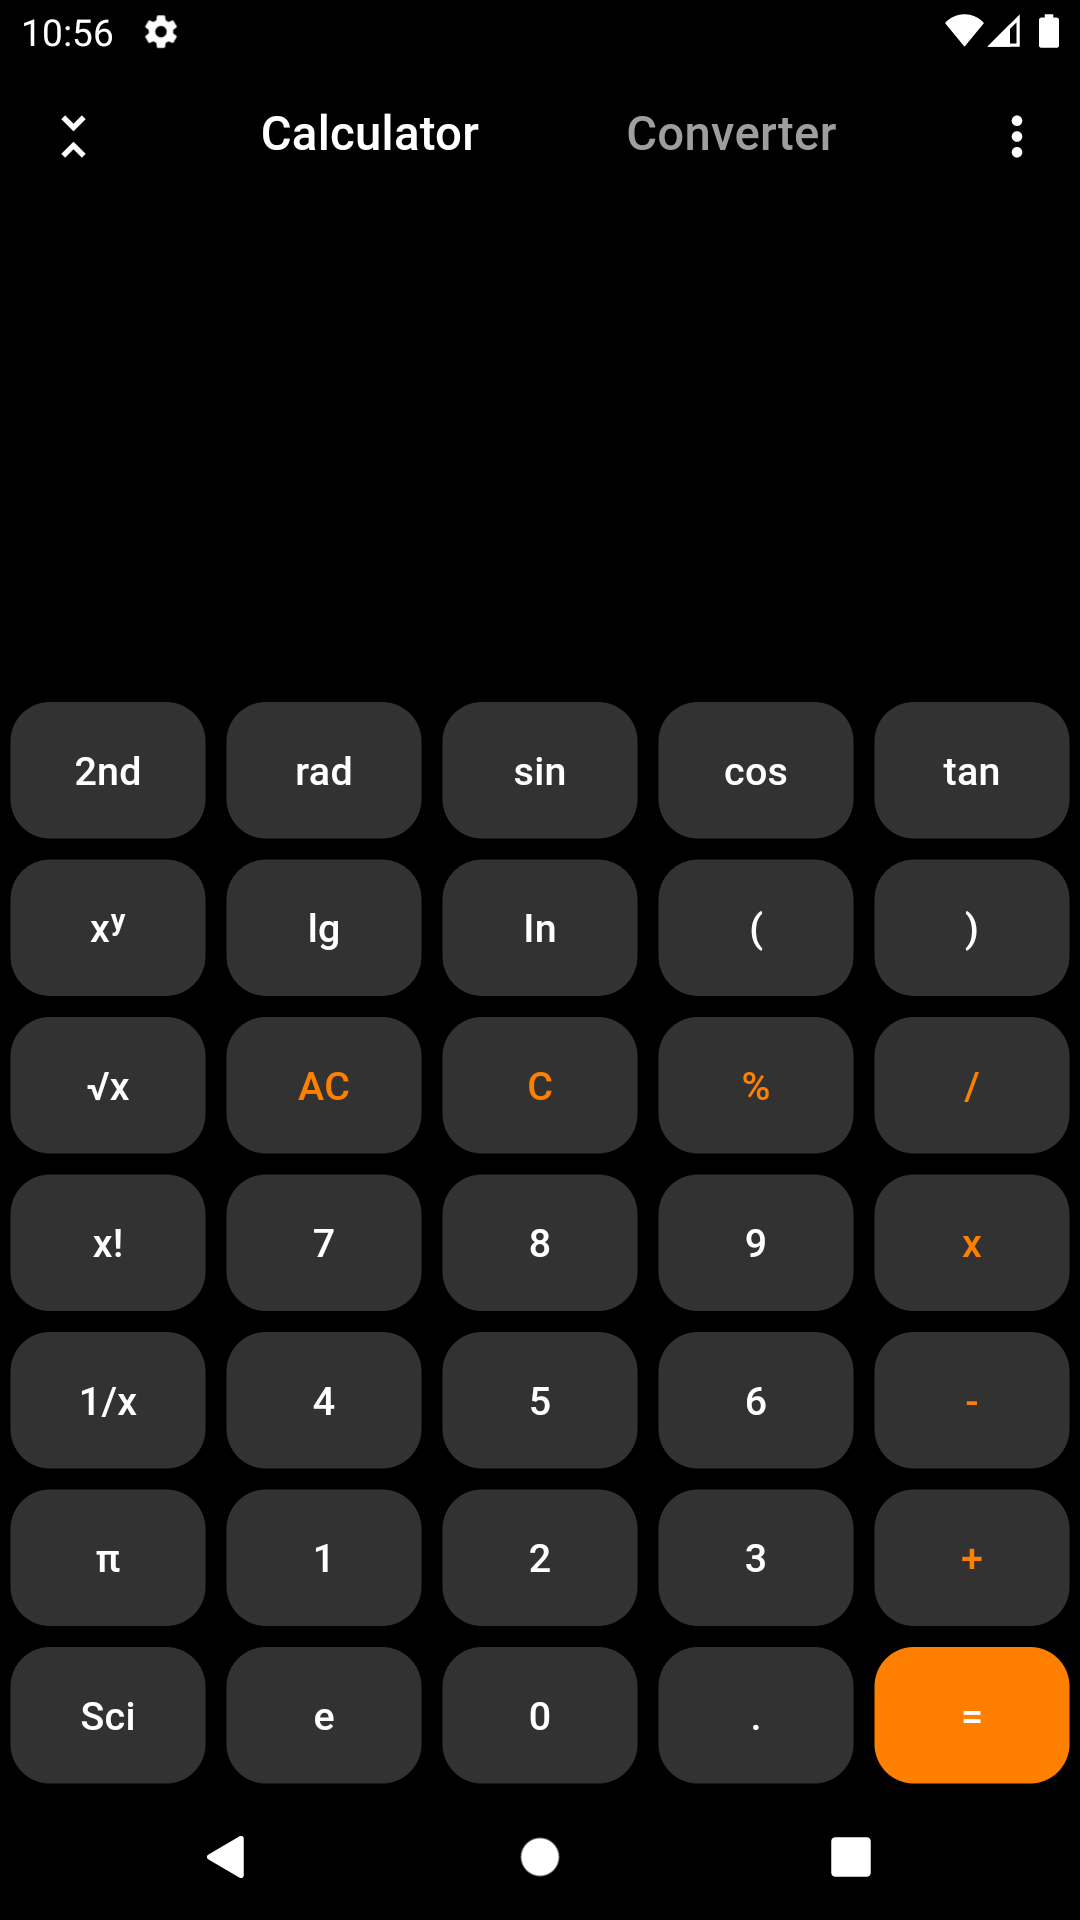
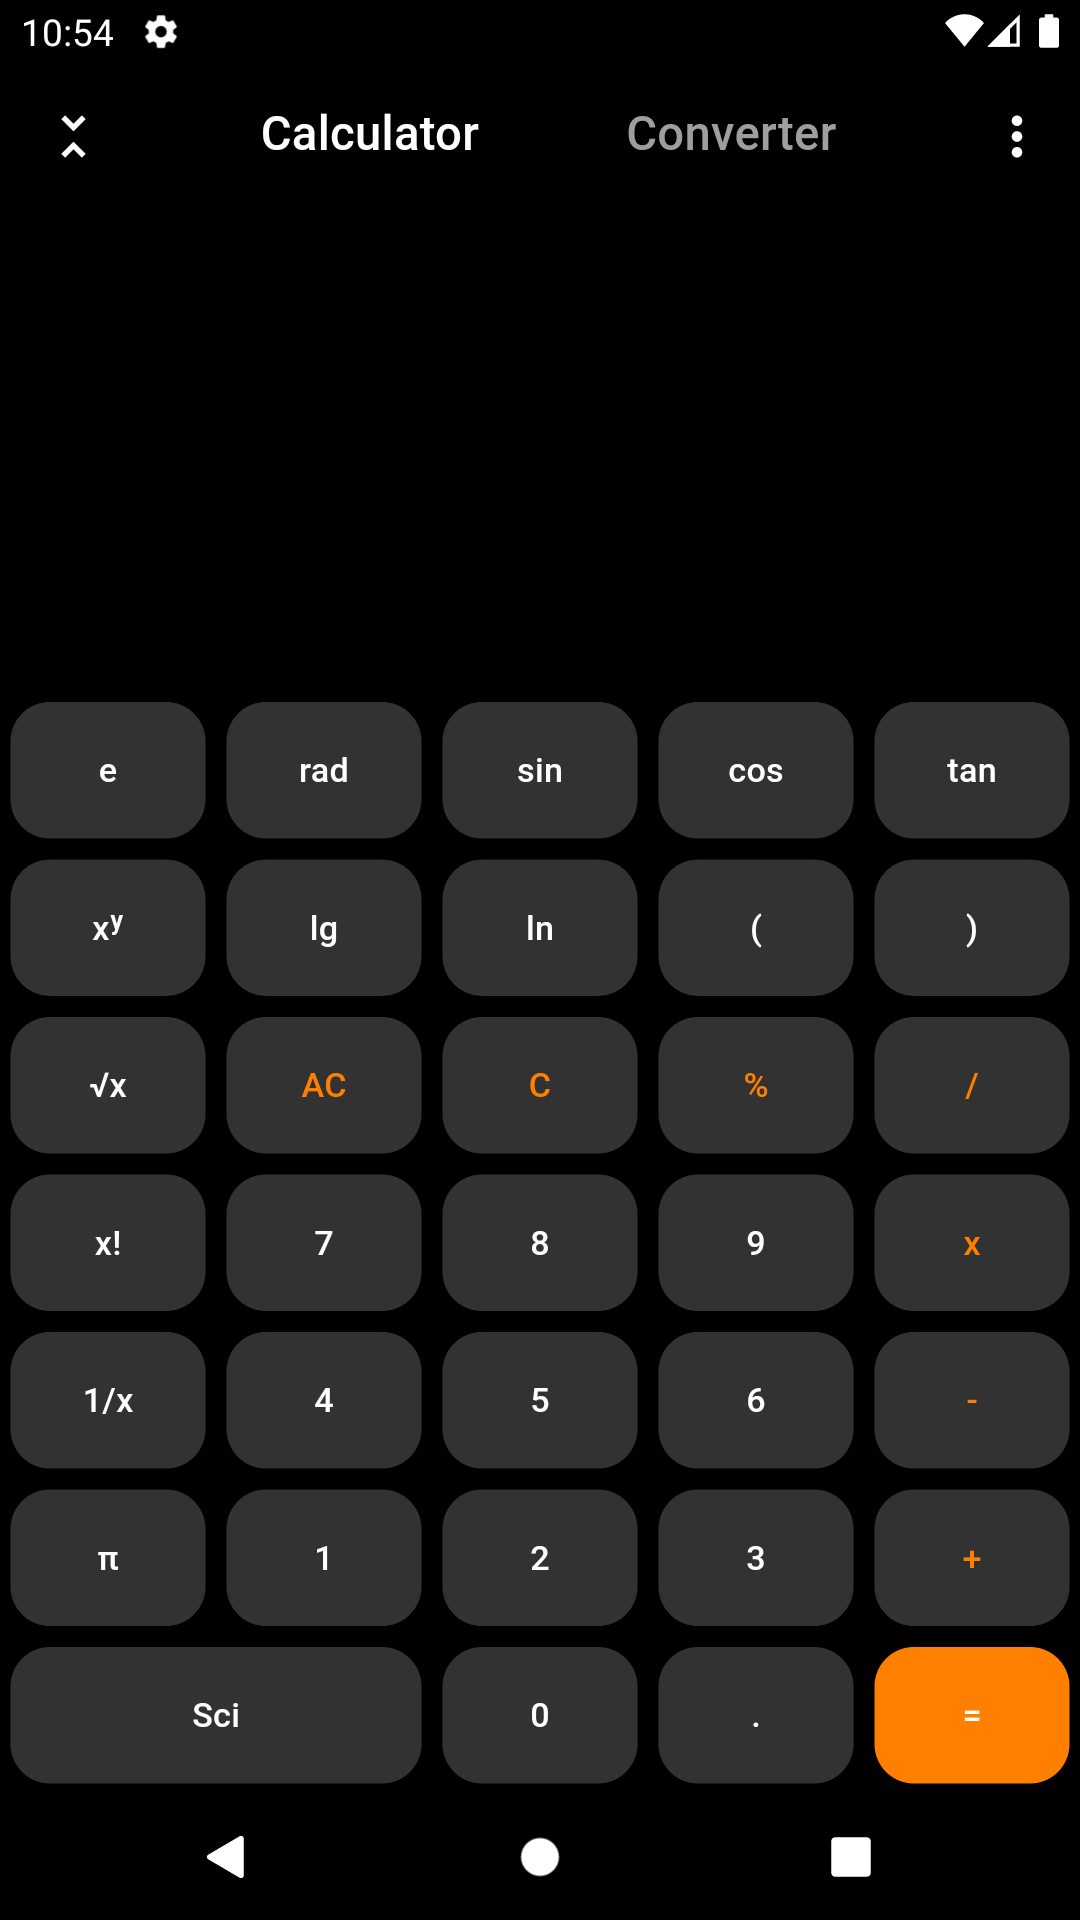
Updated

diff --git a/lib/Calculator/cal_ui.dart b/lib/Calculator/cal_ui.dart
@@ -1,6 +1,8 @@
+import 'dart:math';
+import 'package:auto_size_text/auto_size_text.dart';
 import 'package:flutter/material.dart';
-import 'package:expressions/expressions.dart';
 import 'package:function_tree/function_tree.dart';
+import 'package:sci_calculator/Calculator/cal_color.dart';
 
 class CalUI extends StatefulWidget {
   const CalUI({super.key});
@@ -13,9 +15,18 @@ class _CalUIState extends State<CalUI> {
   //Creating the properties
   String display = "";
   bool isScientific = false;
-  //
+
+  // For Calculation
+  bool islg = false;
+  bool isRadianBtn = true;
+  bool checkIsDeg = true;
+
+  // To set Value
   double heightValue = 70;
   double fontSizeValue = 25;
+
+  //Creating obj of CalServices
+  CalColor calColor = CalColor();
 
   @override
   Widget build(BuildContext context) {
@@ -30,17 +41,18 @@ class _CalUIState extends State<CalUI> {
             width: double.infinity,
             child: Align(
               alignment: Alignment.centerRight,
-              child: Text(
-                display, //Y Error
+              child: AutoSizeText(
+                display,
                 style: const TextStyle(fontSize: 50, color: Colors.white),
+                maxLines: 1,
               ),
             ),
           ),
           if (isScientific)
             Row(
               children: [
-                addBtn("2nd"),
-                addBtn("rad"),
+                addBtn("e"),
+                if (isRadianBtn) addBtn("rad") else addBtn("deg"),
                 addBtn("sin"),
                 addBtn("cos"),
                 addBtn("tan"),
@@ -52,7 +64,7 @@ class _CalUIState extends State<CalUI> {
               children: [
                 addBtn("xʸ"),
                 addBtn("lg"),
-                addBtn("In"),
+                addBtn("ln"),
                 addBtn("("),
                 addBtn(")"),
               ],
@@ -94,22 +106,17 @@ class _CalUIState extends State<CalUI> {
             ],
           ),
           Row(
-            children: [
-              if (isScientific) addBtn("Sci"),
-              if (isScientific) addBtn("e") else addBtn("Sci"),
-              addBtn("0"),
-              addBtn("."),
-              addBtn("=")
-            ],
+            children: [addBtn("Sci"), addBtn("0"), addBtn("."), addBtn("=")],
           ),
         ],
       ),
     );
   }
 
+  //Method take btn Name as Input and return as Button
   Expanded addBtn(btnText) {
     return Expanded(
-      flex: 1,
+      flex: btnText == "Sci" && isScientific ? 2 : 1,
       child: Container(
         //Height of Row
         height: heightValue,
@@ -119,7 +126,8 @@ class _CalUIState extends State<CalUI> {
             child: Text(
               btnText,
               style: TextStyle(
-                  fontSize: fontSizeValue, color: getColortxt(btnText)),
+                  fontSize: fontSizeValue,
+                  color: calColor.getColortxt(btnText)),
             ),
             onPressed: () {
               btnOnPressed(btnText);
@@ -129,45 +137,43 @@ class _CalUIState extends State<CalUI> {
                   RoundedRectangleBorder(
                       borderRadius: BorderRadius.circular(15)),
                 ),
-                backgroundColor: WidgetStatePropertyAll(getBtnBg(btnText)))),
+                backgroundColor:
+                    WidgetStatePropertyAll(calColor.getBtnBg(btnText)))),
       ),
     );
   }
 
-  Color getBtnBg(String txt) {
-    if (txt == "=") {
-      return Color.fromARGB(255, 255, 128, 0);
-    } else {
-      return Color.fromARGB(255, 51, 50, 50);
-    }
-  }
-
-  Color getColortxt(String txt) {
-    if (txt == "AC" ||
-        txt == "C" ||
-        txt == "%" ||
-        txt == "/" ||
-        txt == "+" ||
-        txt == "-" ||
-        txt == "x") {
-      return const Color.fromARGB(255, 255, 128, 0);
-    } else {
-      return Colors.white;
-    }
-  }
-
+  //This Method is called when a btn is clicked
   void btnOnPressed(String btnText) {
     if (btnText == "Sci") {
       setState(() {
         isScientific = !isScientific;
         heightValue = isScientific ? 60 : 70;
-        fontSizeValue = isScientific ? 15 : 25;
+        fontSizeValue = isScientific ? 13 : 25;
       });
-    }
-    // else if (btnText == "π") {
-    //   evalResult("3.14159265359");
-    // }
-    else if (btnText == "AC") {
+    } else if (btnText == "ln") {
+      islg = false;
+      setState(() {
+        display += "ln";
+      });
+    } else if (btnText == "lg") {
+      islg = true;
+      setState(() {
+        display += "lg";
+      });
+    } else if (btnText == "rad") {
+      isRadianBtn = false;
+      checkIsDeg = false;
+      setState(() {});
+    } else if (btnText == "deg") {
+      isRadianBtn = true;
+      checkIsDeg = true;
+      setState(() {});
+    } else if (btnText == "xʸ") {
+      setState(() {
+        display += "^";
+      });
+    } else if (btnText == "AC") {
       setState(() {
         display = "";
       });
@@ -193,13 +199,17 @@ class _CalUIState extends State<CalUI> {
           display.contains("%") ||
           display.contains("e") ||
           display.contains("x!") ||
-          display.contains("√x")) {
+          display.contains("√x") ||
+          display.contains("ln(") ||
+          display.contains("lg(")) {
         String displayReplaced = display
             .replaceAll("π", "3.14159265359")
             .replaceAll("%", "/100")
             .replaceAll("x", "*")
             .replaceAll("e", "2.71828182846")
-            .replaceAll("x!", "!");
+            .replaceAll("x!", "!")
+            .replaceAll("ln(", "log(")
+            .replaceAll("lg(", "log(");
 
         evalResult(displayReplaced);
       } else {
@@ -212,22 +222,40 @@ class _CalUIState extends State<CalUI> {
     }
   }
 
-  // void evalResult(String passedStr) {
-  //   Expression expression = Expression.parse(passedStr);
-  //   ExpressionEvaluator evaluator = const ExpressionEvaluator();
-  //   var result = evaluator.eval(expression, {});
-  //   print(result);
-  //   print(result.runtimeType);
-  //   setState(() {
-  //     display = result.toString();
-  //   });
-  // }
-
   void evalResult(String passedStr) {
-    print(passedStr);
-    var result = passedStr.interpret().toDouble();
+    var result;
+    if (display.contains("/0")) {
+      result = "Can't divide by zero";
+    } else if (passedStr.contains("log(") && islg) {
+      var result1 = passedStr.interpret().toDouble();
+      result = result1 / log(10);
+    } else if ((passedStr.startsWith("sin(") ||
+            passedStr.startsWith("cos(") ||
+            passedStr.startsWith("tan(")) &&
+        !checkIsDeg) {
+      int length = passedStr.length;
+
+      String angleStr = passedStr.substring(4, length - 1);
+
+      double angleD = double.parse(angleStr);
+      double radian = angleD * (3.14159265359 / 180);
+
+      if (passedStr.contains("sin")) {
+        double degree = sin(radian);
+        result = degree.toStringAsPrecision(2);
+      } else if (passedStr.contains("cos")) {
+        double degree = cos(radian);
+        result = degree.toStringAsPrecision(2);
+      } else {
+        double degree = tan(radian);
+        result = degree.toStringAsPrecision(2);
+      }
+    } else {
+      result = passedStr.interpret().toDouble();
+    }
     print(result.runtimeType);
     print(result);
+
     setState(() {
       display = result.toString();
     });

diff --git a/lib/Calculator/cal_color.dart b/lib/Calculator/cal_color.dart
@@ -1,0 +1,29 @@
+import 'package:flutter/material.dart';
+
+class CalColor {
+  //Method returns background color of Btn
+  Color getBtnBg(String txt) {
+    if (txt == "=") {
+      return const Color.fromARGB(255, 255, 128, 0);
+    } else {
+      return const Color.fromARGB(255, 51, 50, 50);
+    }
+  }
+
+  //Method returns TextColor of Btn
+  Color getColortxt(String txt) {
+    if (txt == "AC" ||
+        txt == "C" ||
+        txt == "%" ||
+        txt == "/" ||
+        txt == "+" ||
+        txt == "-" ||
+        txt == "x") {
+      return const Color.fromARGB(255, 255, 128, 0);
+    } else {
+      return Colors.white;
+    }
+  }
+
+  
+}
